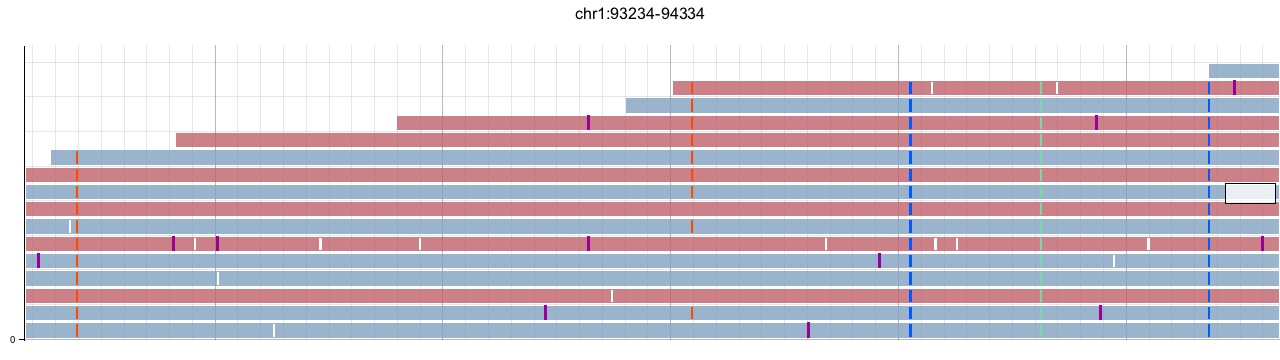
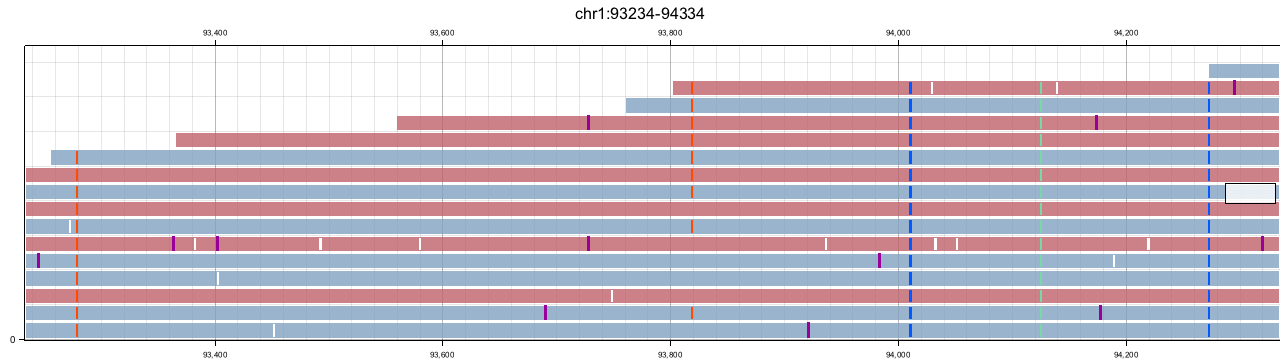
Add advanced examples

diff --git a/src/vis.rs b/src/vis.rs
@@ -75,19 +75,18 @@ impl RangeUtils for Range<usize> {
 
 fn nt_color(record_nt: char, preset_color: &ColorSet) -> Option<RGBColor> {
     match record_nt {
-        'A' => Some(preset_color.pick(VisColor::ACol)), //RED,
+        'A' => Some(preset_color.pick(VisColor::ACol)), // RED,
         'C' => Some(preset_color.pick(VisColor::CCol)), // BLUE,
         'G' => Some(preset_color.pick(VisColor::GCol)),
-        'T' => Some(preset_color.pick(VisColor::TCol)), //GREEN,
+        'T' => Some(preset_color.pick(VisColor::TCol)), // GREEN,
         _ => Some(preset_color.pick(VisColor::NCol)),
     }
 }
 
 fn name_to_num(name: &[u8]) -> usize {
     let mut uuid = 0usize;
-    //name.iter().sum()
-    let right_most = if name.len() > 8 { 8 } else { name.len() };
-    for &i in name[0..right_most].iter() {
+    // let right_most = if name.len() > 8 { 8 } else { name.len() };
+    for &i in name.iter() {
         uuid += i as usize
     }
     uuid
@@ -706,18 +705,32 @@ where
         };
         let x_labels = n_x_labels.get(index).unwrap_or(&10); //if dynamic_partition {} else {10};
                                                              // Then we can draw a mesh
-        chart
-            .configure_mesh()
-            // We can customize the maximum number of labels allowed for each axis
-            .x_labels(*x_labels) // Default value is 10
-            .disable_x_axis()
-            //.x_labels(1)
-            .x_label_offset(x_offset as u32)
-            .y_labels(1)
-            .x_label_style(("sans-serif", x_scale / 4).into_font())
-            // We can also change the format of the label text
-            .x_label_formatter(x_label_formatter)
-            .draw()?;
+        if no_margin {
+            chart
+                .configure_mesh()
+                // We can customize the maximum number of labels allowed for each axis
+                .x_labels(*x_labels) // Default value is 10
+                .disable_x_axis()
+                //.x_labels(1)
+                .x_label_offset(x_offset as u32)
+                .y_labels(1)
+                .x_label_style(("sans-serif", x_scale / 4).into_font())
+                // We can also change the format of the label text
+                .x_label_formatter(x_label_formatter)
+                .draw()?;
+        } else {
+            chart
+                .configure_mesh()
+                // We can customize the maximum number of labels allowed for each axis
+                .x_labels(*x_labels) // Default value is 10
+                //.x_labels(1)
+                .x_label_offset(x_offset as u32)
+                .y_labels(1)
+                .x_label_style(("sans-serif", x_scale / 4).into_font())
+                // We can also change the format of the label text
+                .x_label_formatter(x_label_formatter)
+                .draw()?;
+        }
 
         let mut node_id_dict: BTreeMap<u64, (u64, u64)> = BTreeMap::new();
         let mut prev_pos = std::u64::MAX;
@@ -855,8 +868,7 @@ where
                                     (start, prev_index + key * 2 + axis_count + 1),
                                     style,
                                 );
-                                //                               texts.push(text);
-                                chart.draw_series(vec![text]);
+                                chart.draw_series(vec![text]).unwrap();
                             }
                             if overlapping_annotation {
                                 // println!("{}: {}", range, record.name().unwrap_or(&""));
@@ -1266,9 +1278,9 @@ where
                   };*/
                 if !no_cigar && udon {
                     let record = bam;
-                    let left_top = chart.as_coord_spec().translate(&(range.start, index)); // range.start - 1 is better?
+                    let left_top = chart.as_coord_spec().translate(&(range.start-1, index)); // range.start - 1 is better?
                     let right_bottom = chart.as_coord_spec().translate(&(range.end+1, index + 1));
-                    eprintln!("{:?}, {:?}", left_top, right_bottom);
+             
                     let opt_len = (right_bottom.0 - left_top.0) as usize;
 
                     let window = Range::<usize> {
@@ -1304,7 +1316,6 @@ where
                     let (window_range, offset_in_pixels) = window_range.scale(pixels_per_column);
 
                     /* slice ribbon scaled */
-                    eprintln!("{:?} {:?} {:?} {:?} {:?}", window.len(), opt_len, offset_in_pixels, udon_range, record);
                     let mut ribbon = udon.decode_scaled(
                             &udon_range,
                             offset_in_pixels,

diff --git a/src/main.rs b/src/main.rs
@@ -269,6 +269,7 @@ fn main() {
                 .arg(
                     Arg::new("range")
                         .short('r')
+                        .long("range")
                         .takes_value(true)
                         .multiple(true)
                         .required(true)
@@ -276,6 +277,7 @@ fn main() {
                 )
                 .arg(
                     Arg::new("prefetch-range")
+                        .long("prefetch-range")
                         .short('R')
                         .takes_value(true)
                         .multiple(true)
@@ -283,6 +285,7 @@ fn main() {
                 )
                 .arg(
                     Arg::new("type")
+                        .long("ghb-type")
                         .short('t')
                         .takes_value(true)
                         // .default_value("default")
@@ -292,6 +295,7 @@ fn main() {
                 .arg(
                     Arg::new("preset")
                         .short('z')
+                        .long("preset")
                         //.takes_value(true)
                         // .empty_values(true)
                         // .default_value("auto")
@@ -302,6 +306,7 @@ fn main() {
                 .arg(
                     Arg::new("preset-color")
                         .short('#')
+                        .long("preset-color")
                         .possible_values(&["", "hgb", "igv"])
                         .about("Preset color scheme ['igv', 'hgb'] (default is hgb"),
                 )
@@ -413,7 +418,7 @@ fn main() {
                     Arg::new("snp-frequency")
                         .short('V')
                         .takes_value(true)
-                        .about("The portion of allele frequency to display on each coverage track"),
+                        .about("The portion of heterozygous allele frequency to display on each coverage track"),
                 )
                 .arg(
                     Arg::new("zoom-range")

diff --git a/README.md b/README.md
@@ -136,8 +136,8 @@ cargo run --release -- vis -a test/input1.bam -o fig/output11.png -r chr1:93234-
 
 * A simple example with bases of a reference genome:
 
-```
-cargo run --release --vis -a test/input1.bam -! test/hg38.2bit -o fig/output12.png -r chr1:93234-93334
+```bash
+cargo run --release -- vis -a test/input1.bam -! test/hg38.2bit -o fig/output12.png -r chr1:93234-93334
 ```
 
 ![output12](fig/output12.png)
@@ -145,7 +145,7 @@ cargo run --release --vis -a test/input1.bam -! test/hg38.2bit -o fig/output12.p
 * A simple example with different preset color:
 
 ```bash
-cargo run --release -- vis -a test/input1.bam -o fig/output13.png -r chr1:93234-94334 -# igv
+cargo run --release -- vis -a test/input1.bam -o fig/output13.png -r chr1:93234-94334 -# hgb
 ```
 
 ![output13](fig/output13.png)
@@ -153,7 +153,7 @@ cargo run --release -- vis -a test/input1.bam -o fig/output13.png -r chr1:93234-
 * A simple example with colored by CpG motif:
 
 ```bash
-cargo run --release --vis -a test/input1.bam -o fig/output14.png -r chr1:93234-93334 -E
+cargo run --release -- vis -a test/input1.bam -o fig/output14.png -r chr1:93234-94334 -E
 ```
 
 ![output14](fig/output14.png)
@@ -161,24 +161,24 @@ cargo run --release --vis -a test/input1.bam -o fig/output14.png -r chr1:93234-9
 * A simple example with different labels on tracks:
 
 ```bash
-cargo run --release -- vis -a test/input1.bam test/input2.bam -o fig/output15.png -r chr1:93234-94334 '-{' "SampleA" "SampleB"
+cargo run --release -- vis -a test/input1.bam test/input2.bam -o fig/output15.png -r chr1:93234-94334 '-}' "SampleA" "SampleB"
 ```
 
 ![output15](fig/output15.png)
 
-
-* A simple example with an alignment coverage:
+* A simple example with alignment coverage tracks:
 
 ```bash
-cargo run --release -- vis -a test/input1.bam -o fig/output16.png -r chr1:93234-94334 -P
+cargo run --release -- vis -a test/input1.bam test/input2.bam -o fig/output16.png -r chr1:93234-94334 -P
 ```
 
 ![output16](fig/output16.png)
 
-* A simple example with an alignment coverage:
+* A simple example with different read colors:
 
 ```bash
-cargo run --release -- vis -a test/input1.bam -o fig/output17.png -r chr1:93234-94334 -P -V 0.3
+cargo run --release -- vis -a test/input1.bam -o fig/output17.png -r chr1:93234-94334 -n
+
 ```
 
 ![output17](fig/output17.png)
@@ -198,7 +198,6 @@ cargo run --release -- vis -a test/input1.bam -o fig/output19.png -r chr1:93234-
 ```
 
 ![output19](fig/output19.png)
-
 
 ## Gallery
 
